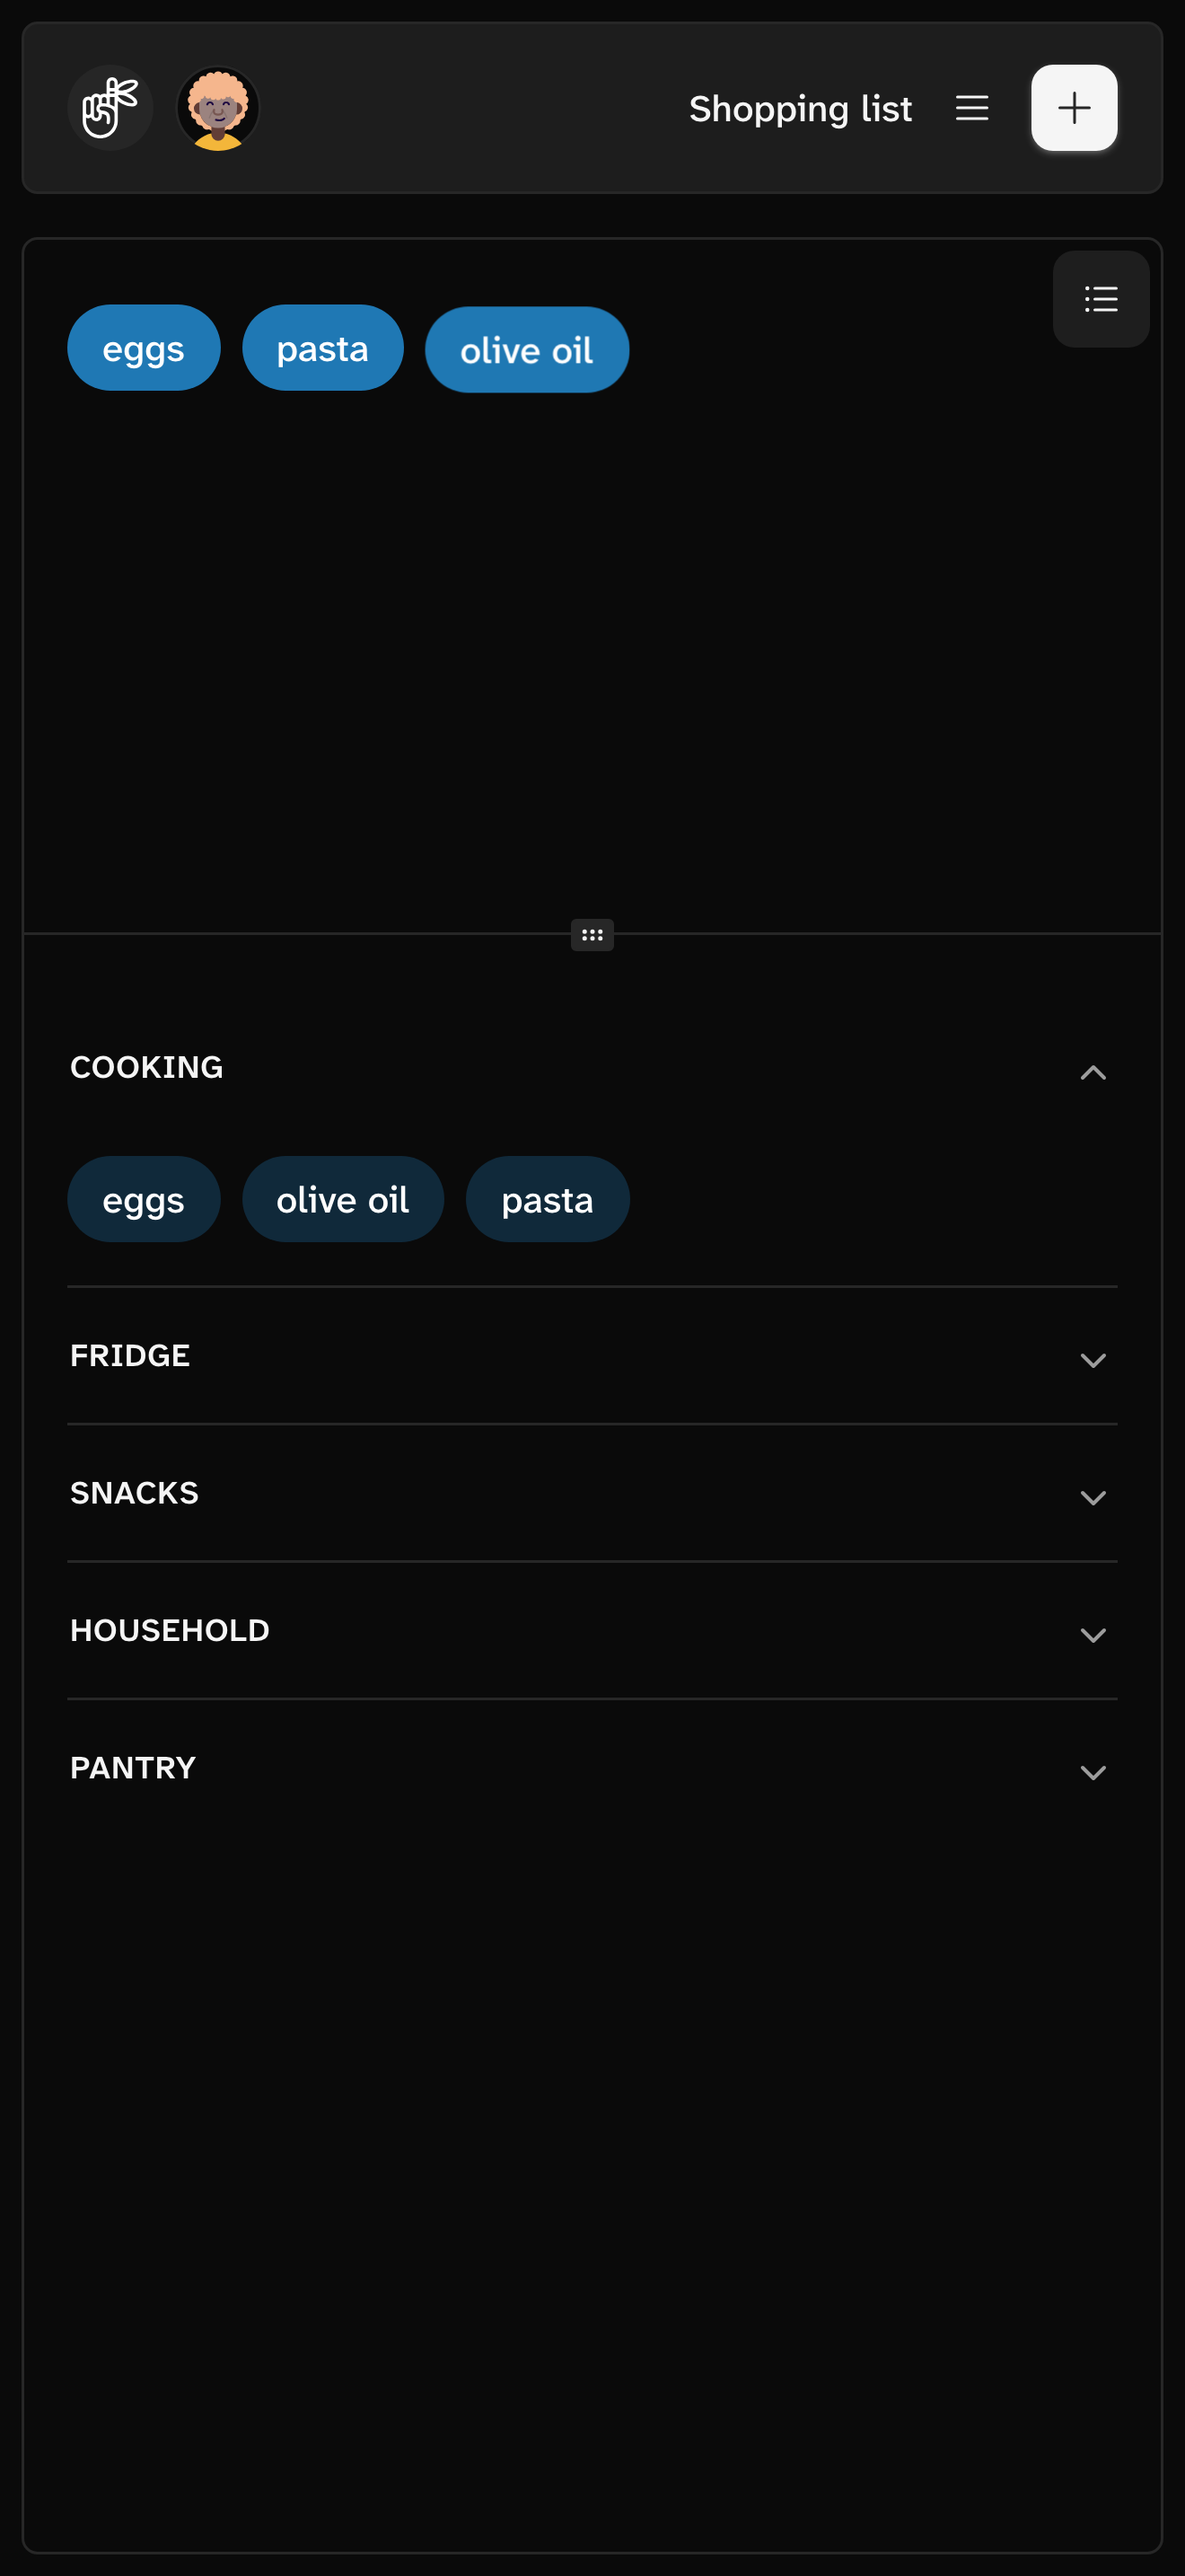
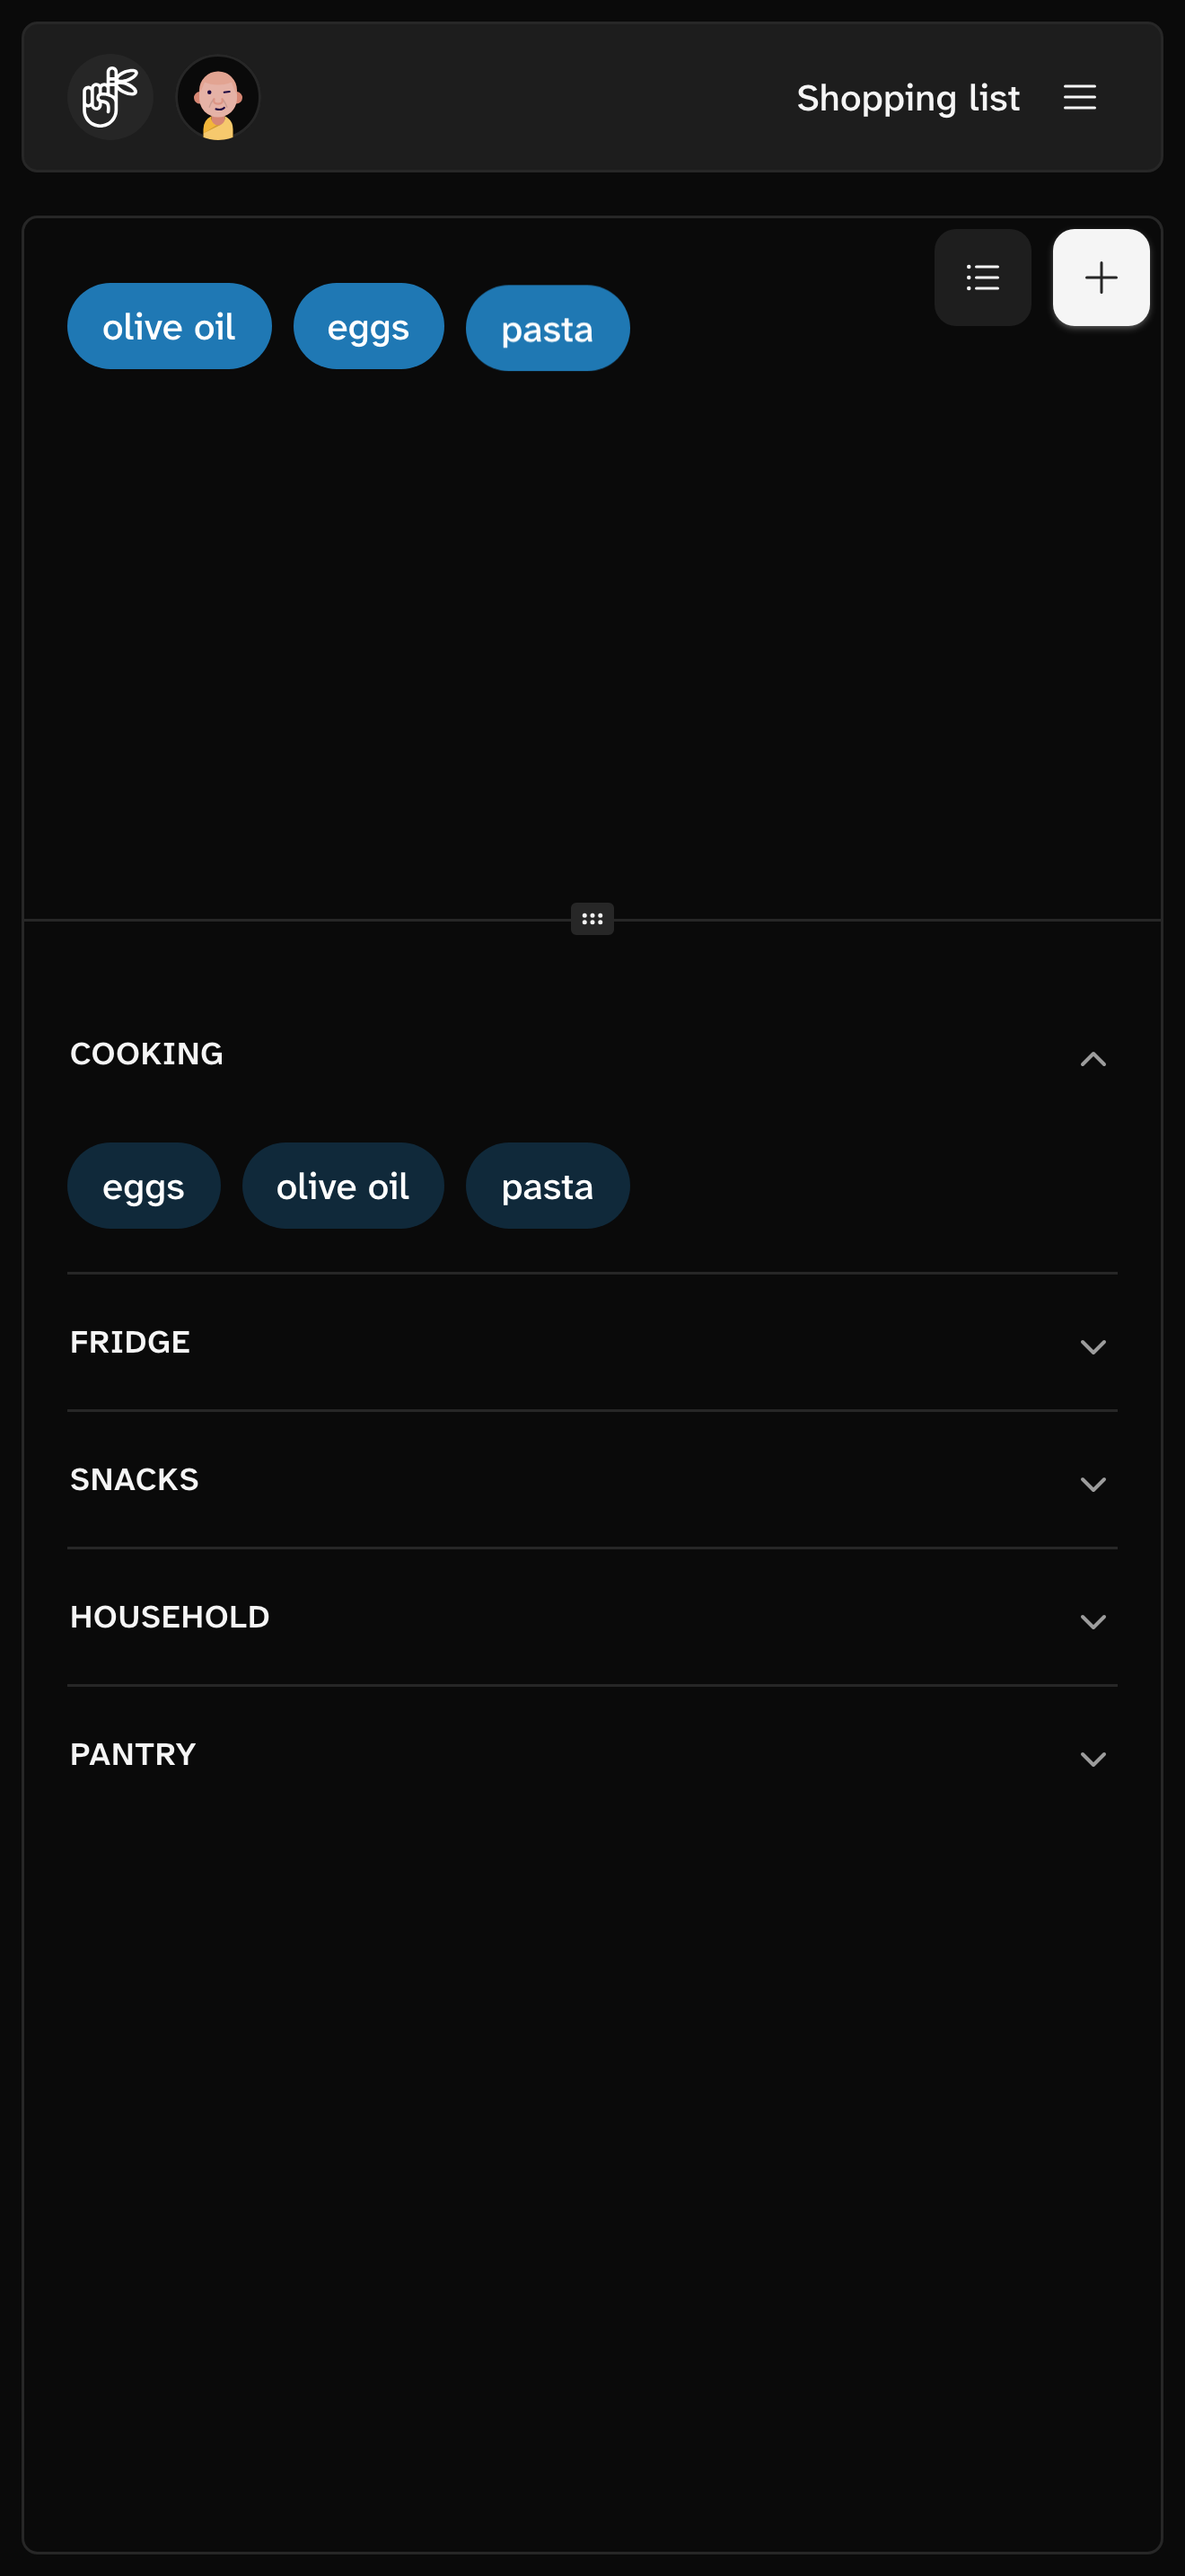
chore: release v3.5.0

diff --git a/src/views/help.tsx b/src/views/help.tsx
@@ -46,14 +46,44 @@ const HelpView = () => (
         </li>
         <li>
           Your list is grouped by category. Check items off as you put them in
-          the cart. Use the floating sort button above the list to cycle between
-          category, most-recent, and alphabetical (A–Z) order.
+          the cart. Use the floating sort button in the top-right of your list
+          (next to <strong>+</strong>) to cycle between category, most-recent,
+          and alphabetical (A–Z) order — your choice is remembered and items
+          within each Catalog category are themselves alphabetically sorted.
         </li>
         <li>
-          Need something that isn&rsquo;t in the catalog yet? Tap the{" "}
-          <strong>+</strong> button in the menu to open quick add — a grouped
-          autocomplete suggests items by category and surfaces your
-          recommendations as you type.
+          Need something that isn&rsquo;t in the catalog yet? Tap{" "}
+          <strong>+</strong> in the floating row at the top of your list to open
+          quick add — a grouped autocomplete suggests items by category and
+          surfaces your recommendations as you type. When creating a new item,
+          category pills appear below the results: tap a pill to create the item
+          in that category immediately, or press <strong>Enter</strong> to
+          create with the selected pill (at least 3 letters).
+        </li>
+      </ul>
+    </section>
+
+    <section className="flex flex-col gap-2">
+      <h2 className="font-semibold text-lg">Catalog</h2>
+      <ul className="flex list-disc flex-col gap-1 pl-5 text-muted-foreground marker:text-muted-foreground">
+        <li>
+          Open <strong>Catalog</strong> from the menu to manage every item and
+          category — categories are collapsible sections sorted by how often you
+          reach for them, with items alphabetically sorted (A–Z) inside each.
+        </li>
+        <li>
+          A contextual legend at the top explains the affordances: double-click
+          (desktop) or tap (mobile) a category or item name to rename via
+          dialog, use the <strong>⋯</strong> menu to edit or delete a category,
+          and swipe an item left on mobile to reveal <strong>Delete</strong>{" "}
+          (confirmed in a dialog). You can also press <strong>Enter</strong>{" "}
+          while focused to edit via keyboard.
+        </li>
+        <li>
+          Both <strong>Add item</strong> and <strong>Add category</strong> are
+          outline buttons in the Catalog header. Deleting a category moves its
+          items to <strong>Uncategorized</strong>; deleting an item also removes
+          it from your shopping list. Both actions ask for confirmation.
         </li>
       </ul>
     </section>

diff --git a/src/views/about.tsx b/src/views/about.tsx
@@ -43,14 +43,26 @@ const AboutView = () => (
           is grouped by category and you can check items off as you shop.
         </li>
         <li>
-          <strong>Quick add</strong>: tap the <strong>+</strong> button in the
-          menu to add a new item on the fly. A grouped autocomplete suggests
-          items by category and surfaces your recommendations as you type.
+          <strong>Quick add</strong>: tap <strong>+</strong> in the floating row
+          at the top of your list to add a new item — a grouped autocomplete
+          suggests items by category and surfaces your recommendations as you
+          type. When creating a new item, category pills appear below the
+          results: tap a pill to create in that category immediately, or press{" "}
+          <strong>Enter</strong> to create with the selected pill (at least 3
+          letters).
         </li>
         <li>
-          <strong>Catalog</strong>: browse and search your items, rename them in
-          place, and add or delete items and categories in collapsible sections
-          sorted by how often you reach for them.
+          <strong>Catalog</strong>: manage items and categories in collapsible
+          sections sorted by how often you reach for them, with items
+          alphabetically sorted (A–Z) within each category. A contextual legend
+          at the top explains the affordances: double-click (desktop) or tap
+          (mobile) a name to rename via dialog, use the <strong>⋯</strong> menu
+          to edit or delete a category, and swipe an item left on mobile to
+          reveal <strong>Delete</strong> (confirmed in a dialog). Both{" "}
+          <strong>Add item</strong> and <strong>Add category</strong> are
+          outline buttons in the header — deleting a category moves its items to{" "}
+          <strong>Uncategorized</strong>; deleting an item also removes it from
+          your list.
         </li>
         <li>
           <strong>Smart recommendations</strong>: colored pips mark items that
@@ -68,9 +80,10 @@ const AboutView = () => (
           items consistently across the app.
         </li>
         <li>
-          <strong>Ordering controls</strong>: a floating sort button cycles your
-          list between category/name, most-recently-added, and alphabetical
-          (A–Z) — your choice is remembered.
+          <strong>Ordering controls</strong>: a floating sort button in the
+          top-right of your list (next to <strong>+</strong>) cycles your list
+          between category/name, most-recently-added, and alphabetical (A–Z) —
+          your choice is remembered.
         </li>
         <li>
           <strong>Theme</strong>: pick dark, light, or system and your

diff --git a/CHANGELOG.md b/CHANGELOG.md
@@ -2,6 +2,23 @@
 
 All notable changes to Remindit will be documented in this file.
 
+## v3.5.0 — 2026-08-30
+
+_Catalog editing goes tactile — dialogs, swipe gestures, and a smarter quick-add with category pills._
+
+### ✨ New Features
+
+- **Category Pills in Quick Add**: When creating a new item, category pills appear below the autocomplete results — tap a pill to create the item immediately in that category, or press **Enter** to create with the selected pill (requires at least 3 letters). Selecting a pill when the name is too short just picks the category
+- **Alphabetically Sorted Catalog**: Items within each category are now sorted alphabetically (A–Z) via locale-aware comparison, so renames and adds stay scannable
+- **Contextual Catalog Legend**: A tailored legend at the top of the Catalog page explains how to edit (double-click on desktop / tap on mobile), swipe-to-reveal delete on mobile, the **⋯** kebab menu, and confirmation dialogs — adapting via mobile detection
+- **Dialog + Swipe-to-Reveal Editing**: Double-click (desktop) or single tap (mobile) opens Item/Category dialogs for renaming; categories expose a kebab menu for discoverability and items expose a mobile swipe-to-reveal **Delete** with `AlertDialog` confirmation. Desktop keeps the Table layout while mobile uses stacked swipeable cards
+
+### 🔧 Improvements
+
+- **Quick Add in the Shopping List**: The **+** quick-add button moved from the global menu header into the Shopping List's floating row beside the sort control (unified `icon-lg`, primary) — so it lives where you actually build your list
+- **Outline Add Buttons**: **Add category** now uses the outline variant like **Add item** for visual consistency — both header actions are secondary
+- **Help & About**: Documentation updated to cover dialog editing, swipe-to-reveal, the catalog legend, alphabetical sorting, the floating quick-add row, and category pills
+
 ## v3.4.0 — 2026-08-30
 
 _Your list gets lighter and more distinct — alphabetical sorting, distinct category colors, and a faster, more accessible shopping experience._
